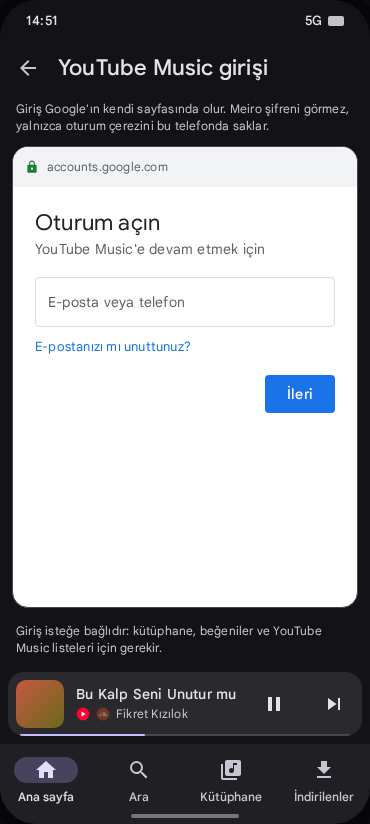
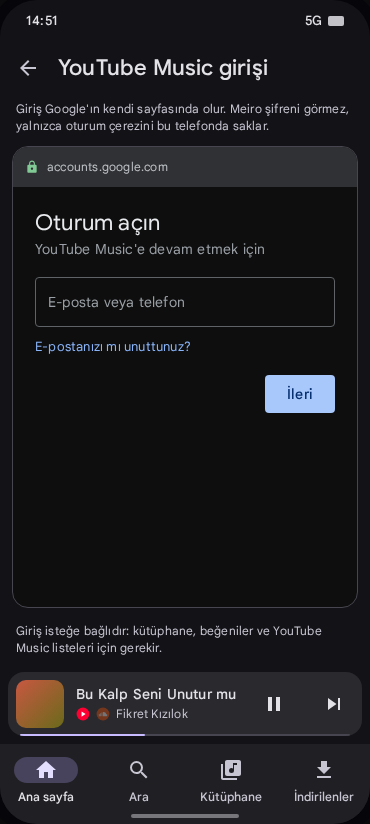
Draw the YouTube Music sign-in page dark in the dark theme in the mock

diff --git a/docs/android/mock/index.html b/docs/android/mock/index.html
@@ -17,6 +17,8 @@
     --scrim:rgba(0,0,0,.55);
     --page:#0c0c0f;
     --shadow:0 1px 2px rgba(0,0,0,.30), 0 2px 6px rgba(0,0,0,.40);
+    /* Google's sign-in page in the ytmlogin frame (sampled from its dark page on the emulator) */
+    --w-bg:#0e0e0e; --w-text:#e8eaed; --w-sub:#9aa0a6; --w-strip:#303134; --w-url:#bdc1c6; --w-lock:#81c995; --w-line:#5f6368; --w-link:#8ab4f8; --w-btn:#a8c7fa; --w-btn-text:#062e6f;
   }
   html[data-theme="light"]{
     --surface:#f9f8fe;
@@ -28,6 +30,7 @@
     --error:#ba1a1a; --error-container:#ffdad6; --on-error-container:#410002;
     --scrim:rgba(0,0,0,.35);
     --page:#e9e8ef;
+    --w-bg:#ffffff; --w-text:#202124; --w-sub:#5f6368; --w-strip:#f1f3f4; --w-url:#5f6368; --w-lock:#188038; --w-line:#dadce0; --w-link:#1a73e8; --w-btn:#1a73e8; --w-btn-text:#ffffff;
     --shadow:0 1px 2px rgba(0,0,0,.10), 0 2px 6px rgba(0,0,0,.14);
   }
   *{box-sizing:border-box}
@@ -392,14 +395,15 @@
   .welcome p{margin:0 0 26px; color:var(--on-surface-variant)}
   .welcome .field{margin:10px 0 14px}
   .welcome .field label{background:var(--surface)}
-  .webview{margin:0 12px; border-radius:16px; border:1px solid var(--outline-variant); overflow:hidden; background:#fff; color:#202124}
-  .webview .url{display:flex; align-items:center; gap:8px; padding:10px 12px; background:#f1f3f4; font-size:12px; color:#5f6368}
-  .webview .url svg{width:14px; height:14px; fill:#188038}
+  /* Google's page follows the theme (dark in a dark app, as on the phone): its colours are the --w-* tokens */
+  .webview{margin:0 12px; border-radius:16px; border:1px solid var(--outline-variant); overflow:hidden; background:var(--w-bg); color:var(--w-text)}
+  .webview .url{display:flex; align-items:center; gap:8px; padding:10px 12px; background:var(--w-strip); font-size:12px; color:var(--w-url)}
+  .webview .url svg{width:14px; height:14px; fill:var(--w-lock)}
   .webview .body{padding:26px 22px 28px}
   .webview .g{font-size:22px; margin-bottom:6px}
-  .webview .gi{border:1px solid #dadce0; border-radius:4px; padding:14px 12px; color:#5f6368; margin:18px 0 10px}
+  .webview .gi{border:1px solid var(--w-line); border-radius:4px; padding:14px 12px; color:var(--w-sub); margin:18px 0 10px}
   .webview .gb{display:flex; justify-content:flex-end; margin-top:18px}
-  .webview .gb span{background:#1a73e8; color:#fff; border-radius:4px; padding:9px 22px; font-weight:500}
+  .webview .gb span{background:var(--w-btn); color:var(--w-btn-text); border-radius:4px; padding:9px 22px; font-weight:500}
   /* the sign-in page takes the height left between the two notes, so Google's page fits */
   .fillcol{display:flex; flex-direction:column; min-height:100%}
   .fillcol .webview{flex:1; display:flex; flex-direction:column}
@@ -764,7 +768,7 @@ V.settings = () => {
 V.ytmlogin = () => {
   return '<div class="fillcol">' + topbar('YouTube Music girişi', {back:true, noAvatar:true}) +
     '<div class="note" style="margin:0 16px 12px">Giriş Google\'ın kendi sayfasında olur. Meiro şifreni görmez, yalnızca oturum çerezini bu telefonda saklar.</div>' +
-    '<div class="webview"><div class="url">' + I('lock') + 'accounts.google.com</div><div class="body"><div class="g">Oturum açın</div><div style="color:#5f6368">YouTube Music\'e devam etmek için</div><div class="gi">E-posta veya telefon</div><div style="color:#1a73e8;font-size:13px">E-postanızı mı unuttunuz?</div><div class="gb"><span data-act="ytm-in">İleri</span></div></div></div>' +
+    '<div class="webview"><div class="url">' + I('lock') + 'accounts.google.com</div><div class="body"><div class="g">Oturum açın</div><div style="color:var(--w-sub)">YouTube Music\'e devam etmek için</div><div class="gi">E-posta veya telefon</div><div style="color:var(--w-link);font-size:13px">E-postanızı mı unuttunuz?</div><div class="gb"><span data-act="ytm-in">İleri</span></div></div></div>' +
     '<div class="note" style="margin-top:14px;margin-bottom:16px">Giriş isteğe bağlıdır: kütüphane, beğeniler ve YouTube Music listeleri için gerekir.</div></div>';
 };
 V.signin = () => {
